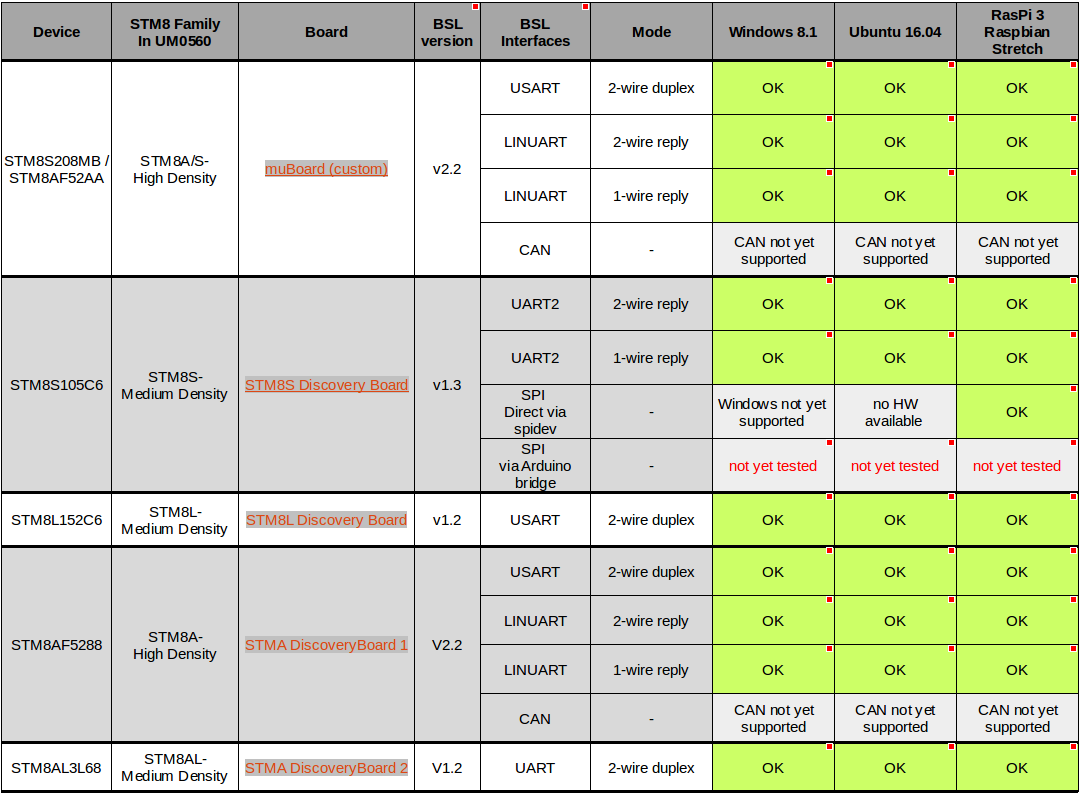
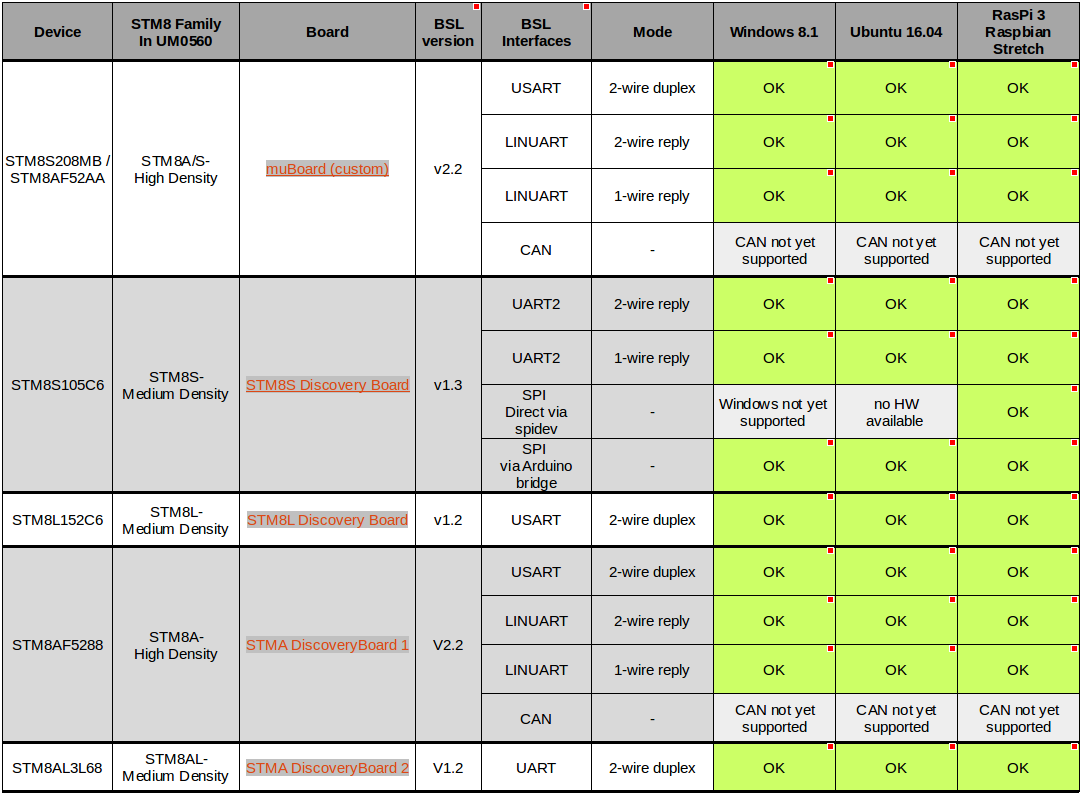
updated test matrix

diff --git a/README.md b/README.md
@@ -270,7 +270,7 @@ _stm8gal_ has recently been tested only for the below STM8 devices and operating
 
 - SPI verify after write does not work (READ command only returns ACK) -> verify after write is disabled for SPI. Strangely, memory read-out works via SPI
 
-- On RasPi 3 and SPI (via spidev) communication works reliably only up to 250kBaud
+- On RasPi 3 SPI communication via spidev works reliably only up to 250kBaud. With Arduino and setup above, upload is ok up to 2MBaud
 
 ***
 
